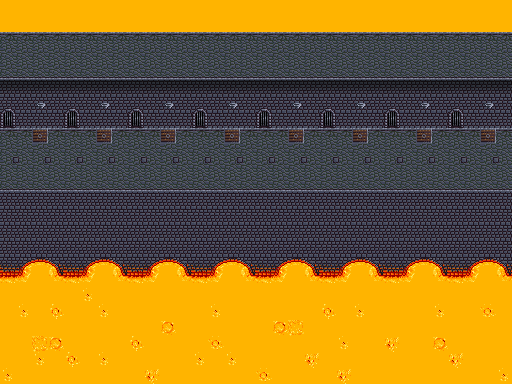
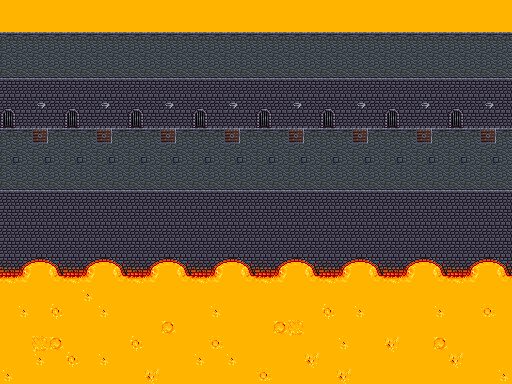
Fixed the Issue
The textureLoader now properly load all the layers into an array
separately and combines the first 2 layer (the background and
transparent background), puts them into the arrayList, then puts the
transparent TOP layer into the arrayList.  Then it puts that arrayList
into a hashmap corresponding to the level name.

Changed region(s): [[0.0, 0.1875, 1.0, 0.25]]

diff --git a/src/TextureLoader.java b/src/TextureLoader.java
@@ -165,12 +165,13 @@ public class TextureLoader {//Load will need to return a hashmap of the filename
 			ArrayList<BufferedImage> layers = new ArrayList<BufferedImage>();
 			NodeList lList = document.getElementsByTagName("layer");
 			//TODO I think screenBitmap is getting all layers rendered to it prematurely.
-			BufferedImage screenBitmap = new BufferedImage(mapWidth*16, mapHeight*16, BufferedImage.TYPE_INT_ARGB);
+			
 			BufferedImage screenBitmapTopLayer = new BufferedImage(mapWidth*16, mapHeight*16, BufferedImage.TYPE_INT_ARGB);
 			Graphics2D[] gList = new Graphics2D[lList.getLength()];
 			//for(int i = 0; i<1; i++){
 			System.out.println(lList.getLength());
 			for(int i = 0; i<lList.getLength(); i++){
+				BufferedImage screenBitmap = new BufferedImage(mapWidth*16, mapHeight*16, BufferedImage.TYPE_INT_ARGB);
 				int[] tileArray = new int[mapWidth*mapHeight];//TODO might need to change from a constant to a variable
 				Node layer = lList.item(i);
 				//NodeList dataList = lList.
@@ -308,7 +309,7 @@ public class TextureLoader {//Load will need to return a hashmap of the filename
 			BufferedImage combined = new BufferedImage(mapWidth*16, mapHeight*16, BufferedImage.TYPE_INT_ARGB);
 			Graphics2D gc = combined.createGraphics();
 			//for(int w = 0; w<layers.size(); w++){//This needs to combine the first two layers into the background image
-			for(int w = 0; w<layers.size(); w++){
+			for(int w = 0; w<layers.size()-1; w++){//This loop combines already combined images
 				System.out.println(w+ " layers.length: " + layers.size());
 				//may need to limit to constant size of 2 so that we only combine the first 2 layers.
 				gc.drawImage(layers.get(w), 0, 0, null);
@@ -317,12 +318,16 @@ public class TextureLoader {//Load will need to return a hashmap of the filename
 				
 				
 			}
-			gc.finalize();
+			//gc.finalize();
 			
 			levelMap.add(combined);
 			combined.flush();
 			
-			
+			BufferedImage combined2 = new BufferedImage(mapWidth*16, mapHeight*16, BufferedImage.TYPE_INT_ARGB);
+			Graphics2D gc2 = combined2.createGraphics();
+			gc2.drawImage(layers.get(layers.size()-1), 0, 0, null);
+			levelMap.add(combined2);
+			combined2.flush();
 			
 			
 			//BufferedImage combined = new BufferedImage(mapWidth*16, mapHeight*16, BufferedImage.TYPE_INT_ARGB);

diff --git a/src/MyCanvas.java b/src/MyCanvas.java
@@ -15,7 +15,7 @@ import javax.swing.JFrame;
 class MyCanvas extends JComponent {
 
   public void paint(Graphics g) {
-    Graphics2D gr = (Graphics2D) g;
+    //Graphics2D gr = (Graphics2D) g;
     
     try{//This works and puts into a BufferedImage array each tile of a tilemap when the tilewidth/height and width and height are specified.
 		//File file = new File("resources\\tilemaps\\series1\\sewer_1.png");
@@ -46,8 +46,12 @@ class MyCanvas extends JComponent {
 		for(int i = 0; i<levels.size(); i++){
 			System.out.println("MADE IT TO G-LOOP");
 			name = levels.get(i);
-			BufferedImage levelMap = (BufferedImage)TextureLoader.getLevelMap(name).get(0);
-			gr.drawImage(levelMap,i*512,0, this);
+			ArrayList<BufferedImage> layers = TextureLoader.getLevelMap(name);
+			for(int a = 0; a< layers.size(); a++){
+				BufferedImage levelMap = layers.get(a);
+				g.drawImage(levelMap,i*512,0, this);
+			}
+			
 		count++;	
 		}
 		System.out.println("Count: " + count);
@@ -56,7 +60,7 @@ class MyCanvas extends JComponent {
 		//gr.drawImage(levelMap,0,0, this);
 		
 		
-	gr.finalize();
+	g.finalize();
 	//Graphics2DDrawImage.main(null);
 	}catch(Exception e){
 		e.printStackTrace();
